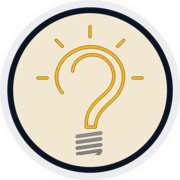
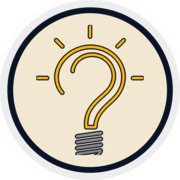
Outline the bulb in navy so the question mark reads at 16px
Amber on cream is two warm light tones — almost no luminance contrast,
so the mark washed out at tab size. A dilated navy silhouette behind the
artwork gives every stroke a dark edge. The question mark is now legible
at 16px where it was previously an indistinct blob.

Changed region(s): [[0.1944, 0.1389, 0.8056, 0.8889], [0.2778, 0.1944, 0.3611, 0.2778]]

diff --git a/index.html b/index.html
@@ -15,9 +15,9 @@
 <title>Idea Forge Pro — Sell Before You Build</title>
 <meta name="description" content="Put a startup idea through seven gates and find out which one it fails — before you write a line of code. Free, in your browser, on your own API key.">
 <meta name="theme-color" content="#08090C">
-<link rel="icon" href="/assets/favicon.ico?3" sizes="any">
-<link rel="icon" type="image/png" href="/assets/favicon-32.png?3" sizes="32x32">
-<link rel="apple-touch-icon" href="/assets/icon-180.png?3">
+<link rel="icon" href="/assets/favicon.ico?4" sizes="any">
+<link rel="icon" type="image/png" href="/assets/favicon-32.png?4" sizes="32x32">
+<link rel="apple-touch-icon" href="/assets/icon-180.png?4">
 <meta property="og:type" content="website">
 <meta property="og:url" content="https://ideaforgepro.com/">
 <meta property="og:site_name" content="Idea Forge Pro">
